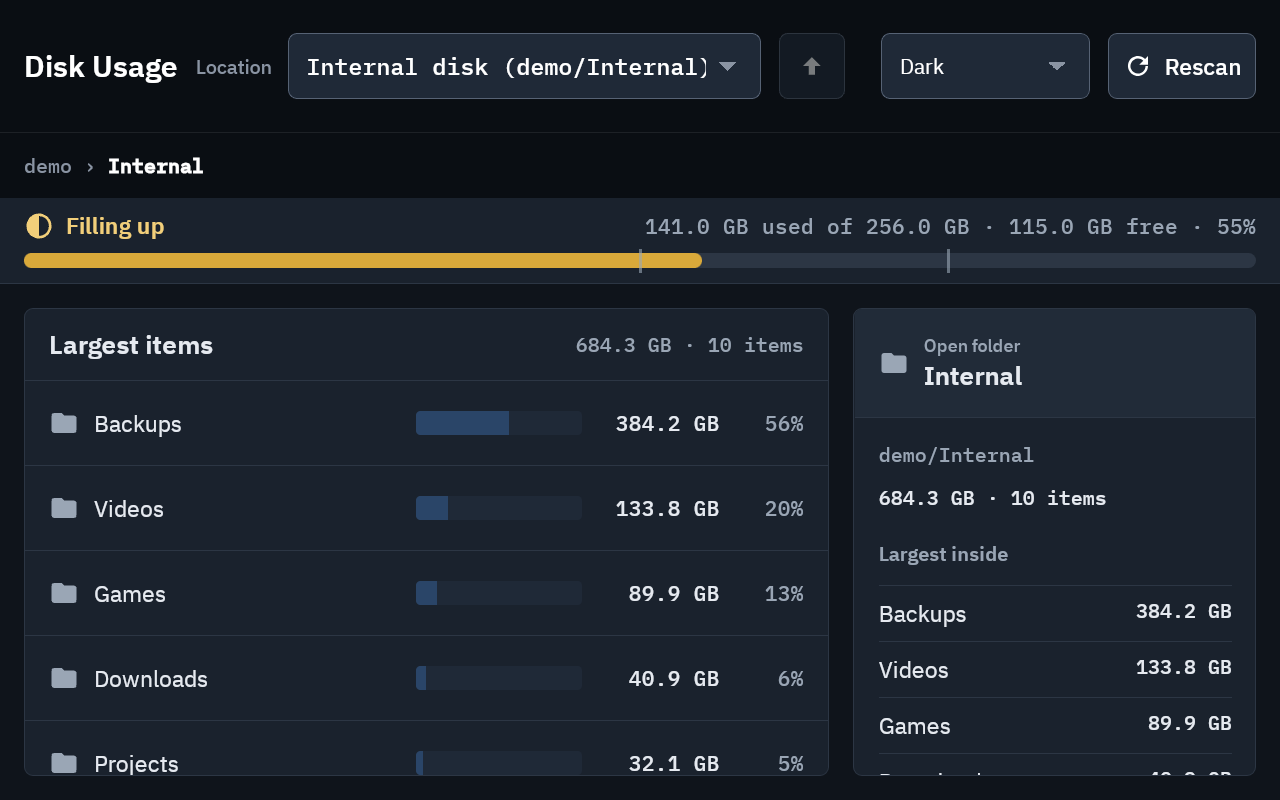
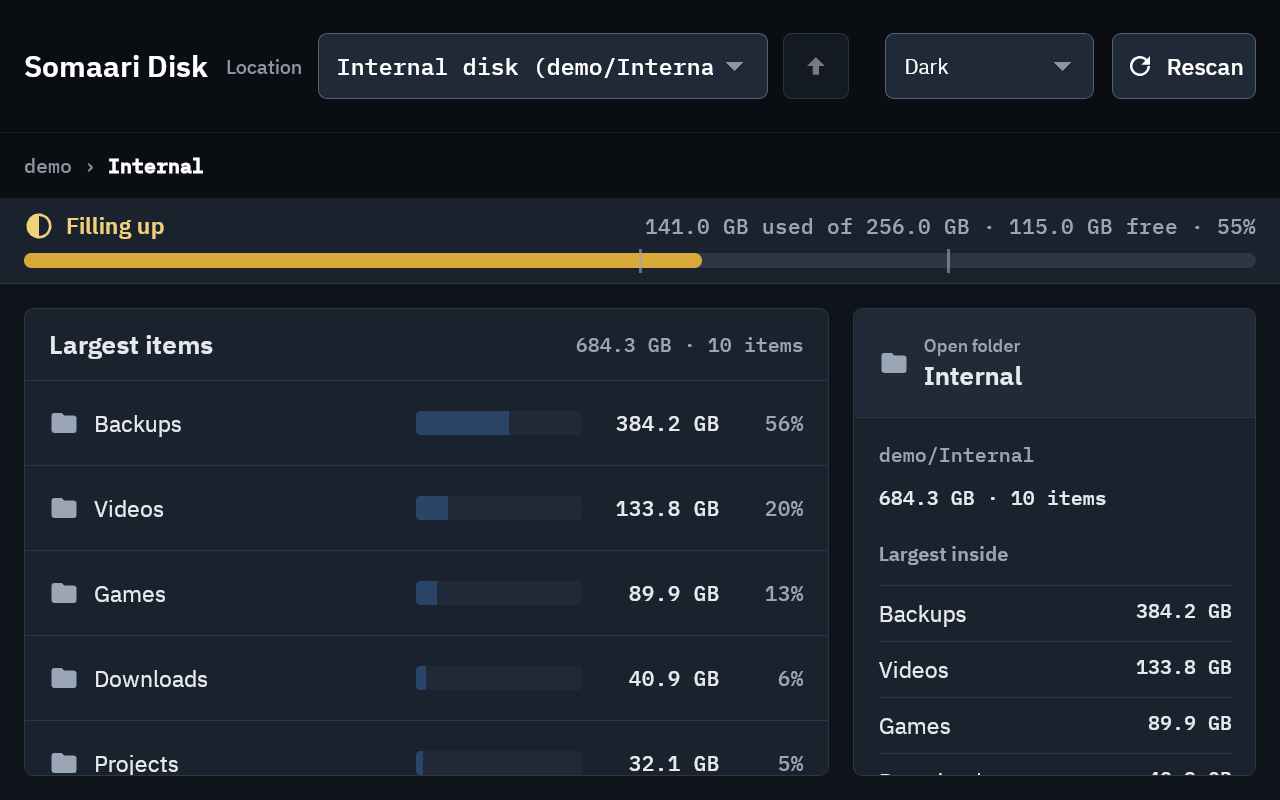
Fix Windows log redaction; one app name
Redact the home path in its repr form (doubled backslashes) and
case-insensitively on Windows - CI showed it leaking via tracebacks.
Window title, page heading and WebView2 dialog now say Somaari Disk.

Changed region(s): [[0.0, 0.0312, 0.6562, 0.125], [0.8438, 0.0312, 0.9688, 0.125], [0.6875, 0.0625, 0.75, 0.125]]

diff --git a/src/somaari_disk/ui/index.html b/src/somaari_disk/ui/index.html
@@ -4,14 +4,14 @@
   <meta charset="utf-8">
   <meta name="viewport" content="width=device-width, initial-scale=1">
   <meta name="color-scheme" content="light dark">
-  <title>Disk Usage</title>
+  <title>Somaari Disk</title>
   <link rel="stylesheet" href="app.css">
   <script type="module" src="app.js"></script>
 </head>
 <body>
   <header class="top" aria-label="Location">
     <div class="top-row">
-      <h1 class="app-title">Disk Usage</h1>
+      <h1 class="app-title">Somaari Disk</h1>
       <label class="location">
         <span class="location-label">Location</span>
         <select id="location" disabled></select>

diff --git a/src/somaari_disk/ui/app.js b/src/somaari_disk/ui/app.js
@@ -325,7 +325,7 @@ function renderNotice() {
 
 function listState() {
   const f = state.folder;
-  if (!api()) return { icon: "folder", title: "Open this page from the Disk Usage app." };
+  if (!api()) return { icon: "folder", title: "Open this page from the Somaari Disk app." };
   if (!f) {
     if (state.disconnected) {
       return { kind: "gone", icon: "unplugged", title: "Drive disconnected", detail: "Reconnect it, then choose it from Location." };

diff --git a/tests/test_hardening.py b/tests/test_hardening.py
@@ -8,7 +8,7 @@ import os
 import sys
 import threading
 import time
-from pathlib import Path
+from pathlib import Path, PurePosixPath, PureWindowsPath
 
 import pytest
 
@@ -20,7 +20,7 @@ from somaari_disk.core import scanner as scanner_mod
 from somaari_disk.core.models import Node, ScanResult, ScanWarning
 from somaari_disk.core.scanner import Scanner
 from somaari_disk.core.tree import display_name, find_node, iter_nodes, path_segments
-from somaari_disk.logsetup import LOG_NAME, setup_logging
+from somaari_disk.logsetup import LOG_NAME, RedactingFormatter, setup_logging
 from somaari_disk.platform import get_platform
 from somaari_disk.platform.fake import FakeDir, FakeFile, FakePlatform
 from test_api import Recorder, make, sample_tree
@@ -378,6 +378,31 @@ def test_log_redacts_home_everywhere(tmp_path, app_logger):
     assert "~/Videos/clip.mp4".replace("/", os.sep) in text or "~/Videos/clip.mp4" in text
     assert "start: python" in text
     assert "bad-\\udcff-name" in text
+
+
+def _redact(home, message: str) -> str:
+    record = logging.LogRecord("somaari_disk.t", logging.INFO, __file__, 1, message, None, None)
+    return RedactingFormatter(home, "%(message)s").format(record)
+
+
+def test_log_redacts_windows_home_in_every_form():
+    # Windows CI leaked the home via repr() in tracebacks: backslashes are doubled there
+    home = PureWindowsPath(r"C:\Users\someone")
+    for form in (
+        r"C:\Users\someone\Videos",
+        repr(r"C:\Users\someone\Videos"),  # 'C:\\Users\\someone\\Videos'
+        r"c:\users\SOMEONE\Videos",  # Windows paths are case-insensitive
+        "C:/Users/someone/Videos",
+    ):
+        out = _redact(home, f"failed: {form}")
+        assert "someone" not in out.lower(), out
+        assert "~" in out
+
+
+def test_log_redaction_is_case_sensitive_on_posix():
+    home = PurePosixPath("/home/someone")
+    assert _redact(home, "/home/someone/a") == "~/a"
+    assert _redact(home, "/home/Someone/a") == "/home/Someone/a"  # a different folder
 
 
 def test_log_root_home_is_not_blanked(tmp_path, app_logger):

diff --git a/src/somaari_disk/logsetup.py b/src/somaari_disk/logsetup.py
@@ -5,8 +5,9 @@ from __future__ import annotations
 import logging
 import logging.handlers
 import platform
+import re
 import sys
-from pathlib import Path
+from pathlib import Path, PurePath, PureWindowsPath
 
 MAX_BYTES = 512 * 1024
 BACKUPS = 3  # app.log + 3 old files: at most 2 MiB on disk
@@ -16,16 +17,19 @@ LOG_NAME = "app.log"
 class RedactingFormatter(logging.Formatter):
     """Formats as usual, then hides the home folder (also inside tracebacks)."""
 
-    def __init__(self, home: Path, fmt: str | None = None):
+    def __init__(self, home: PurePath, fmt: str | None = None):
         super().__init__(fmt or "%(asctime)s %(levelname)s %(name)s: %(message)s")
-        self._homes = sorted({str(home), home.as_posix()}, key=len, reverse=True)
+        forms = {str(home), home.as_posix()}
+        # repr() of a Windows path (exception args, tracebacks) doubles every backslash
+        forms |= {f.replace("\\", "\\\\") for f in forms}
+        homes = sorted((f for f in forms if len(f) > 1), key=len, reverse=True)  # never "/" or ""
+        # Windows paths are case-insensitive: C:\Users\X and c:\users\x are the same folder
+        flags = re.IGNORECASE if isinstance(home, PureWindowsPath) else 0
+        self._pattern = re.compile("|".join(map(re.escape, homes)), flags) if homes else None
 
     def format(self, record: logging.LogRecord) -> str:
         text = super().format(record)
-        for h in self._homes:
-            if len(h) > 1:  # never blank out a bare "/" or ""
-                text = text.replace(h, "~")
-        return text
+        return self._pattern.sub("~", text) if self._pattern else text
 
 
 def setup_logging(log_dir: Path, home: Path, level: int = logging.INFO) -> Path | None:

diff --git a/src/somaari_disk/app.py b/src/somaari_disk/app.py
@@ -10,9 +10,10 @@ from .api.bridge import Api
 
 UI_DIR = Path(__file__).parent / "ui"
 APP_NAME = "somaari-disk"
+APP_TITLE = "Somaari Disk"  # window, menu entry and installer all use this name
 WEBVIEW2_MISSING = (
-    "Disk Usage needs the Microsoft Edge WebView2 Runtime, which is not installed.\n\n"
-    "Install the Evergreen WebView2 Runtime from Microsoft, then start Disk Usage again."
+    "Somaari Disk needs the Microsoft Edge WebView2 Runtime, which is not installed.\n\n"
+    "Install the Evergreen WebView2 Runtime from Microsoft, then start Somaari Disk again."
 )
 
 
@@ -74,13 +75,13 @@ def run(demo: bool = False, debug: bool = False) -> int:
         from .platform.windows import message_box, webview2_version
 
         if not webview2_version():
-            message_box("Disk Usage", WEBVIEW2_MISSING)
+            message_box(APP_TITLE, WEBVIEW2_MISSING)
             return 1
     import webview  # lazy: heavy, GUI-only
 
     api = make_api(demo)
     window = webview.create_window(
-        "Disk Usage" + (" (demo)" if demo else ""),
+        APP_TITLE + (" (demo)" if demo else ""),
         str(UI_DIR / "index.html"),
         js_api=api,
         width=1280,

diff --git a/tests/test_release.py b/tests/test_release.py
@@ -182,3 +182,13 @@ def test_windows_packaging_files():
     assert "PrivilegesRequired=lowest" in iss
     assert re.search(r"AppId=\{\{[0-9A-F-]{36}\}", iss)
     assert "{#AppVersion}" in iss
+
+
+def test_one_display_name_everywhere():
+    title = app.APP_TITLE
+    html = (app.UI_DIR / "index.html").read_text(encoding="utf-8")
+    assert f"<title>{title}</title>" in html
+    assert f'<h1 class="app-title">{title}</h1>' in html
+    assert title in app.WEBVIEW2_MISSING
+    assert f"Name={title}\n" in _load_build_deb().DESKTOP
+    assert f"AppName={title}\n" in (ROOT / "packaging/windows/installer.iss").read_text("utf-8")

diff --git a/docs/DECISIONS.md b/docs/DECISIONS.md
@@ -65,11 +65,11 @@ Format: `- [date] decision - reason`
 - [2026-10-04] Release workflow publishes a DRAFT GitHub Release (sdist, wheel, .deb, Windows zip + setup.exe, SHA256SUMS); a human publishes it - nothing goes public by automation.
 - [2026-10-04] App icon: three decreasing bars on the top-panel navy (design tokens), SVG source + committed PNG/ICO (packaging/icons/make_icons.py, rsvg-convert) - release builds need no image tools.
 - [2026-10-04] Top-panel selects use `appearance: none` + a CSS-gradient chevron - WebKitGTK painted them from the GTK theme (light background, light text in the light theme). A data-URI SVG chevron would contain an xmlns URL that the no-network test rejects.
+- [2026-10-04] Display name "Somaari Disk" everywhere (window title, page heading, menu entry, installer, WebView2 dialog); .desktop GenericName stays "Disk Usage" so menus can show what it does - owner chose one name.
 
 ## Before going public (owner decisions)
 - Version for the first release (pyproject + __init__ are 0.0.1; suggest 0.1.0) and tag `v<version>`.
 - Copyright holder name in LICENSE and the .deb Maintainer (now the real name + GitHub noreply email).
-- Display name: window says "Disk Usage", menu/installer say "Somaari Disk" - pick one.
 - Keep design/boards/*.dc.html (large, generic sample paths only) and .claude/settings.json + CLAUDE.md in the public repo, or drop them before flipping.
 - Code signing for Windows (unsigned = SmartScreen warning); WebView2 bootstrapper in the installer or keep the in-app message.
 - Enable GitHub private vulnerability reporting (SECURITY.md points to it) and issue labels bug/enhancement.

diff --git a/CHANGELOG.md b/CHANGELOG.md
@@ -17,3 +17,5 @@
 - [2026-10-04] Stage 8: README (light + dark demo screenshots), CONTRIBUTING, SECURITY, issue templates, release workflow (tests on ubuntu x86_64/arm64 + windows; sdist/wheel, .deb, PyInstaller zip + Inno Setup installer; draft release with SHA256SUMS), .deb builder, app icon (SVG/PNG/ICO, window icon on Linux), dependency-license test, pyproject authors/urls/readme, pre-public decision list; history audit clean - go public
 - [2026-10-04] Bundled IBM Plex woff2 fonts + OFL - UI was falling back to system-ui
 - [2026-10-04] Top-panel selects drawn with appearance:none - WebKitGTK showed light text on a light native background in the light theme
+- [2026-10-04] Log redaction also hides the home path in its repr form (doubled backslashes) and ignores case on Windows - Windows CI showed the home leaking through exception text in tracebacks
+- [2026-10-04] Window title, page heading and WebView2 dialog say "Somaari Disk" - matched the menu entry and installer
